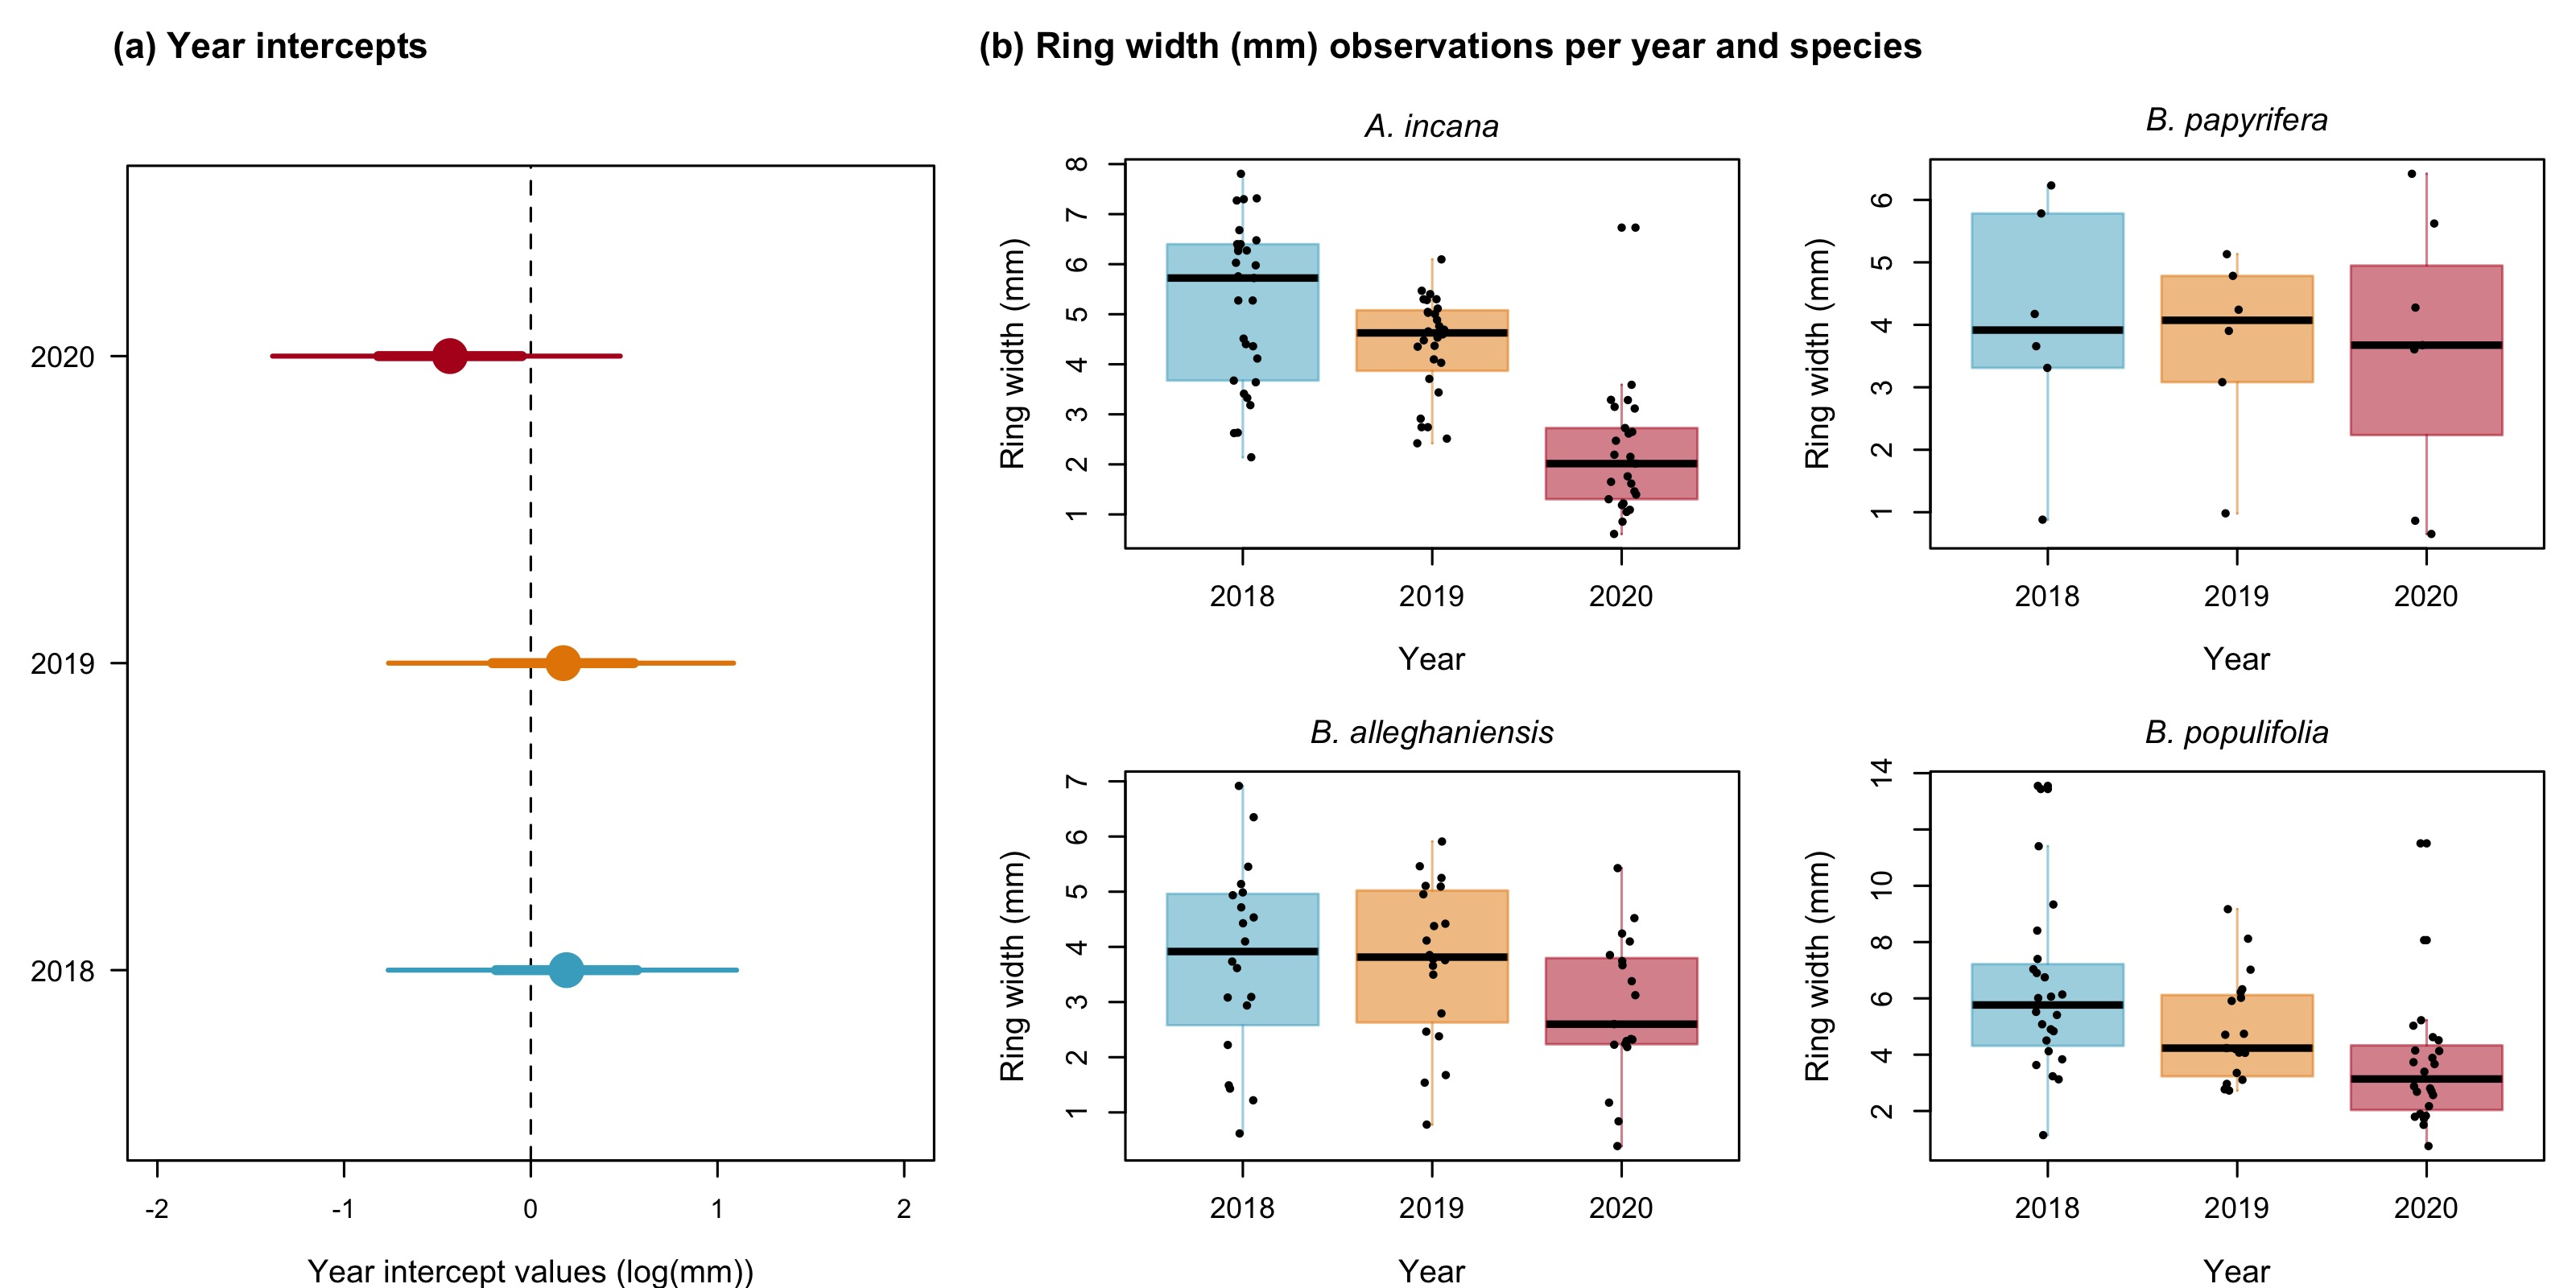
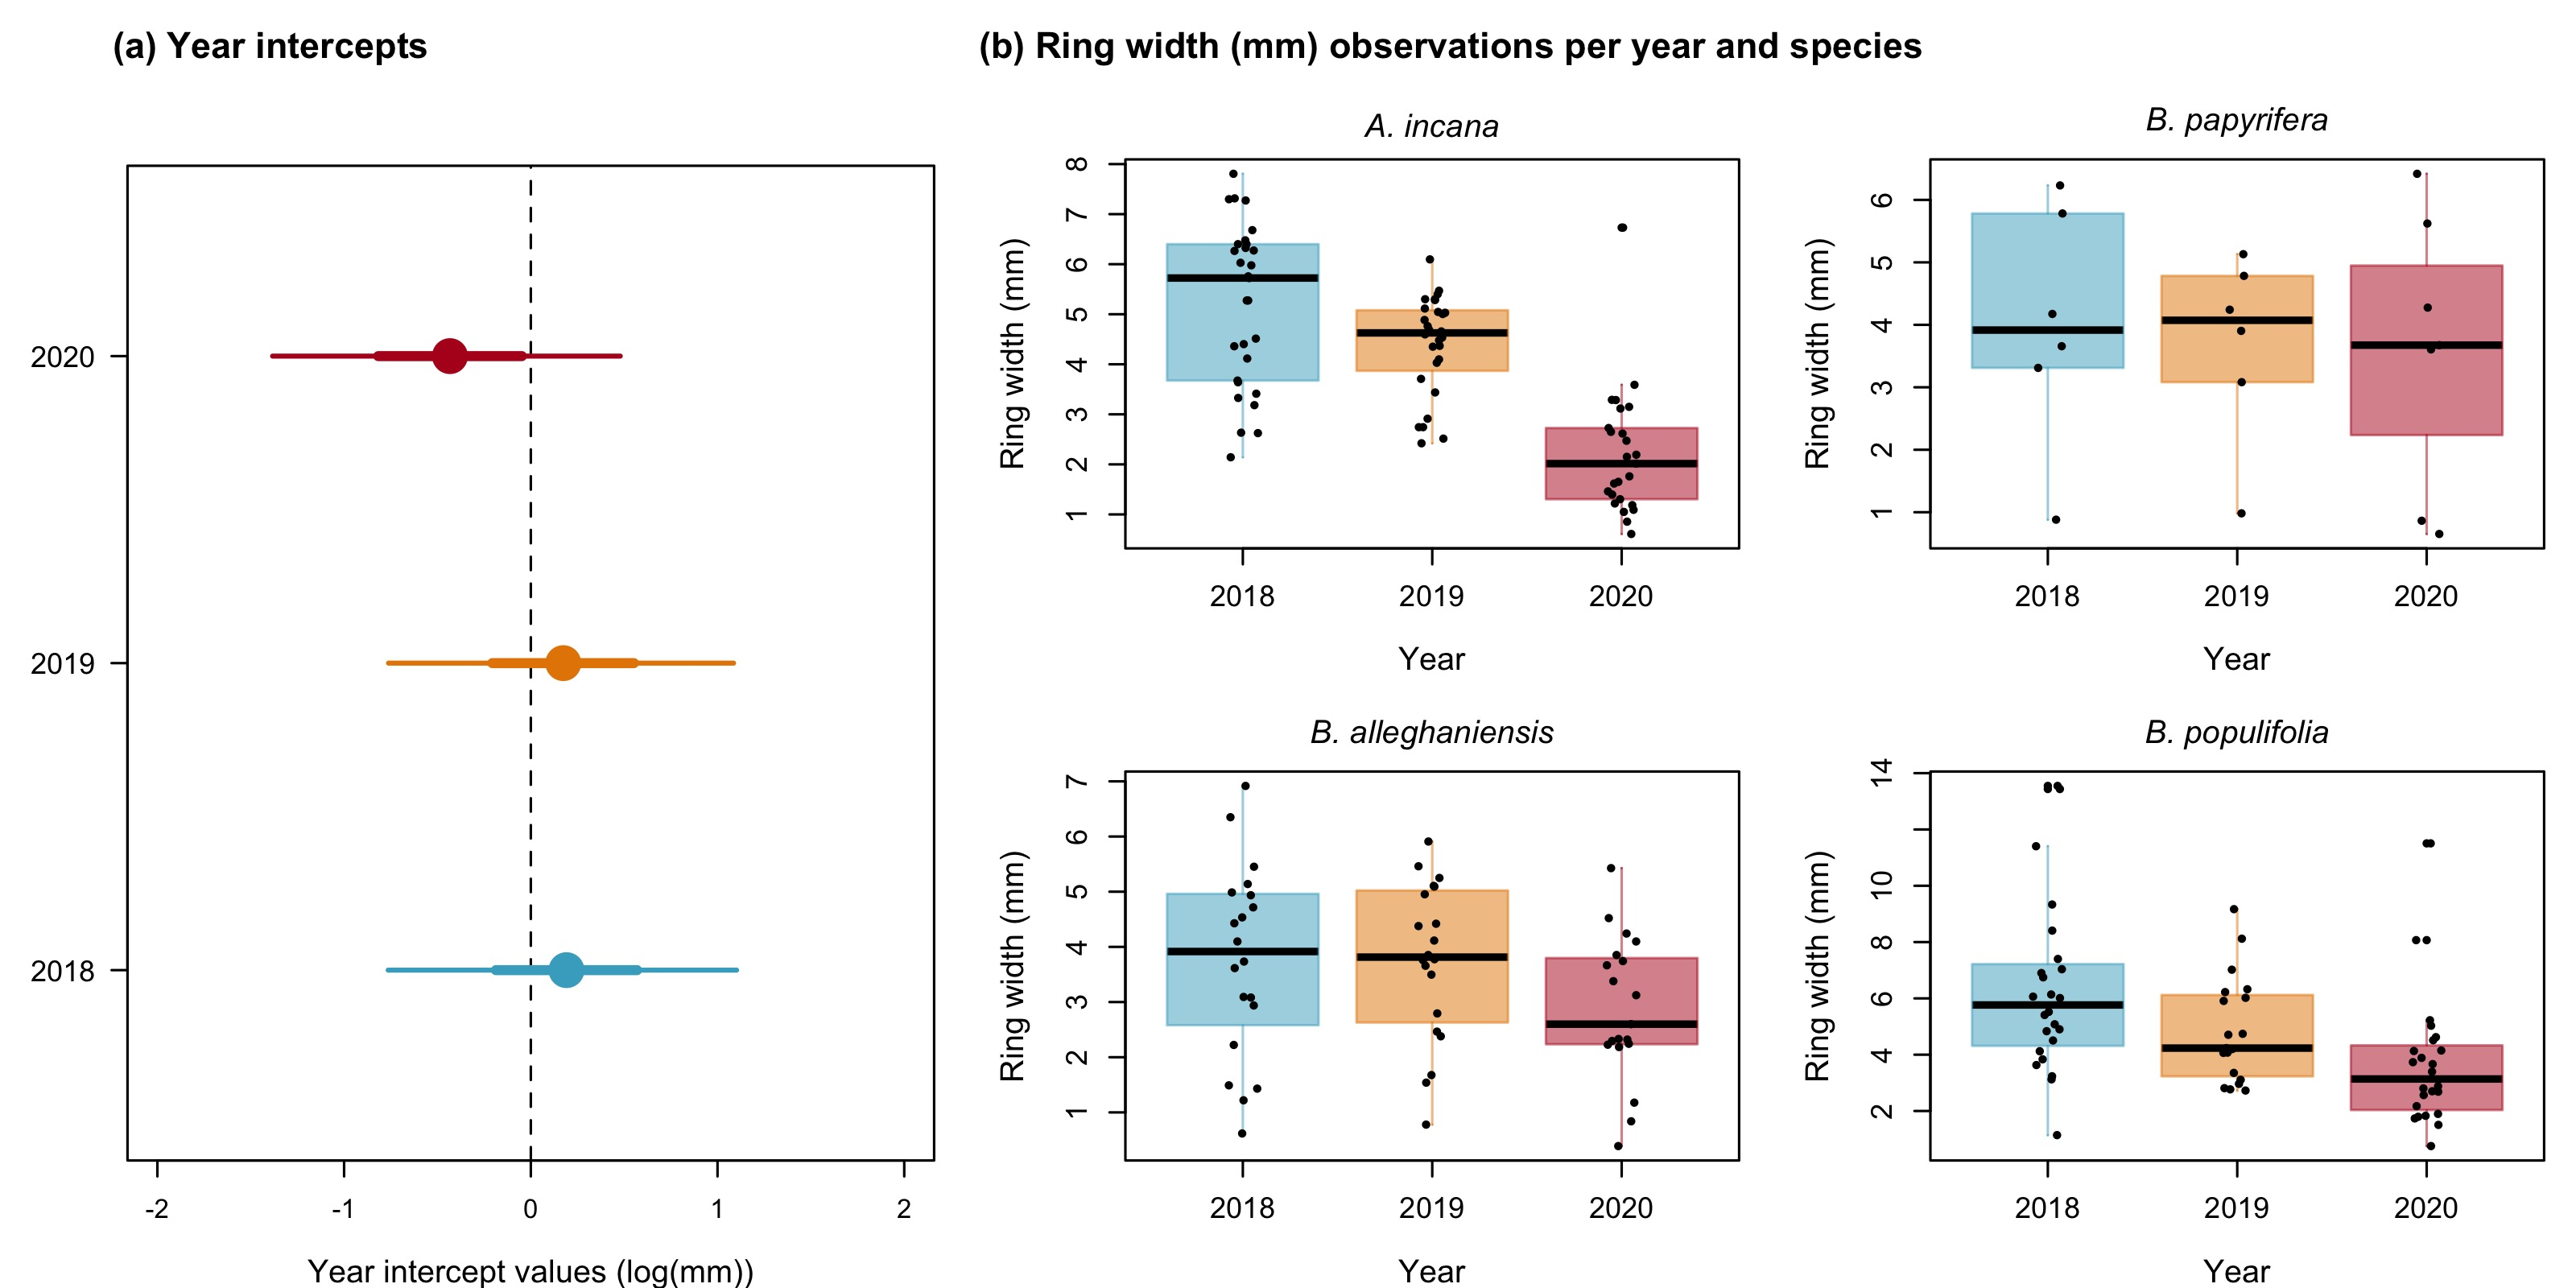
updated through lizzies comments and changed site table for all predictors

diff --git a/docs/resultsOutline/resultsOutlineReal.tex b/docs/resultsOutline/resultsOutlineReal.tex
@@ -67,7 +67,12 @@
 \newcommand{\Bpap}{\textit{B. papyrifera}}
 \newcommand{\Bpop}{\textit{B. populifolia}}
 
+\begin{knitrout}
+\definecolor{shadecolor}{rgb}{0.969, 0.969, 0.969}\color{fgcolor}\begin{kframe}
 
+
+{\ttfamily\noindent\bfseries\color{errorcolor}{\#\# Error:\\\#\# ! object 'species' not found}}\end{kframe}
+\end{knitrout}
 
 
 % % <><><><><><><><><><><><><><><><><><><><><><><><><><><><><><><><><><><><><><><>
@@ -98,7 +103,12 @@
 \begin{enumerate}
 \item Summary basic information
   \begin{enumerate}
-  \item Wildchrokie includes four deciduous tree species from four sites with leaf phenology data spaning three years (2018 to 2020) for a total of 239 leafout and 230 budset observations, yielding 227 complete growing seasons (GS) for 81 individuals. 
+  
+  \item Wildchrokie includes four deciduous tree species from four sites with leaf phenology data spaning three years (2018 to 2020) for a total of 239 leafout and 
+  230 budset observations, yielding 
+  227 complete growing seasons (GS) for 
+  81 individuals. 
+    
     \item GSL ranged from 
   90 days ({\Ball} in 2018) to 
   173 days ({\Ainc} in 2018)
@@ -106,15 +116,26 @@
   \item GS thermal sum ranged from 
   1465.1 GDD ({\Ball} in 2018) to 
   2513.6 GDD, ({\Ainc} in 2018)
-  \item The earliest leafout day of year was 22-Apr (2019) and the latest, 05-Jun (2019). The earliest budset day of year was 13-Aug (2018) and the latest, 24-Oct (2018) 
   
-  \item 2018 had a mean summer temperature of 22.85$^\circ$C and had a mean summer PDSI value of 
-  1.92. 2019 was cooler 
-  (22.38$^\circ$C) and wetter 
-  (PDSI $=$ 4.02), whereas 2020 was warmer 
-  (23.07$^\circ$C) and drier
-  (PDSI $=$ -2.35) than 2018.
-
+  \item The earliest leafout day of year was 
+  22-Apr ({\Ainc} in
+  2019) and the latest,
+  05-Jun (also {\Ainc}, but in
+  2020). 
+  The earliest budset day of year was 
+  13-Aug ({\Ball} in
+  2018) and the latest, 
+  24-Oct ({\Ainc} in
+  2018) 
+  
+  \item Mean summer temperature were similar across years with 2019 being the coolest (22.38$^\circ$C), 2020 the hottest (23.07$^\circ$C), and 2018 in between (22.85$^\circ$C)
+  
+  \item No drought for the three years, except for in 2020, where a moderate summer drought ramped up to a severe drought in September.
+  
+  \item Annual ring widths across years varied from 
+  0.39 mm ({\Ball} in 2020) to 
+  13.55 mm ({\Bpop} in 2018) (Figure \ref{fig:wcmuplotayear}). 
+ 
 \end{enumerate}
 
 % Question 1 --- --- --- --- --- --- --- --- --- --- --- --- --- --- --- --- ---
@@ -157,7 +178,7 @@
   [-0.02, 
   0.13]) trended in the same direction (Figure \ref{fig:wcmuplotbspp}b and f) (Table \ref{tab:wc_slope_table}).
   
-  \item Results with basal area increment (BAI) for the GDD model were broadly similar to ring width (see Figure \ref{fig:RWvsBAI} and Table \ref{tab:BAItab})
+  \item Results with basal area increment (BAI) for the GDD model were broadly similar to ring width (see Table \ref{tab:BAItab})
   \end{enumerate}
   
 % Question 2 --- --- --- --- --- --- --- --- --- --- --- --- --- --- --- --- ---
@@ -204,13 +225,13 @@
   [-3.14, 
   5.18]) (Figure \ref{fig:wcmuplotatreeid}), but had contrasting responses to longer growing seasons (Figure \ref{fig:wcmuplotbspp}a and b).
 
-  \item Growth did not change across any provenances (Figure \ref{fig:wcmuplotasite}) (Table \ref{tab:wc_asite_table}), but there was slightly more variation across sites ($\sigma = $
+  \item Growth did not change across any provenances (Figure \ref{fig:wcmuplotasite}) (Table \ref{tab:wc_asite_table}), and the variation across sites ($\sigma = $
   0.18, $UI_{90}$
   [0.02, 
-  0.5) than across tree ids ($\sigma = $ 
+  0.5) tree ids ($\sigma = $ 
   0.17, $UI_{90}$
   [0.05, 
-  0.27]
+  0.27]) was similar
 
   \end{enumerate}
 
@@ -219,10 +240,6 @@
 \item How did growth change across years, and how did it relate to climate?
   \begin{enumerate}
   
-  \item Annual ring widths across years varied from 
-  0.39 mm ({\Ball} in 2020) to 
-  13.55 mm ({\Bpop} in 2018) (Figure \ref{fig:wcmuplotayear}). 
- 
   \item Growth was highest in 2018 
   (0.19, $UI_{90}$
   [-0.76, 
@@ -250,12 +267,6 @@
 \label{fig:wcmuplotasite}
 \end{figure}
 
-% Wildchrokie year mu plot
-\begin{figure}[!ht]
-\includegraphics[width=1\textwidth]{../../analyses/figures/growthModelsMain/muayear_boxplot.jpeg}
-\caption{We show tree ring widths (mm) across years and species in two ways: (a) as model estimates for the year intercepts with the dots depicting the mean and the lines, the 50\% and 90\% uncertainty intervals (UI) and (b) using box plots of the empirical data. Though the trend is weak, 2020 is systematically the year with the lowest growth shown both as the mean of the model intercepts (a) and as the median of the raw data, for each species (b). The growth of 2018 and 2019 is similar.}
-\label{fig:wcmuplotayear}
-\end{figure}
 
 
 % <><><><><><><><><><><><><><><><><><><><><><><><><><><><><><><><><><><><><><><>
@@ -272,7 +283,7 @@
 %DL22May: You already say in the caption that the values are the slopes, so you can remove the beta and the equal signs from the table, same with the alpha in the next table
 % Table slope for Wildchrokie
 % latex table generated in R 4.5.1 by xtable 1.8-4 package
-% Fri May 29 15:49:16 2026
+% Tue Jun  2 16:45:07 2026
 \begin{table}[ht]
 \centering
 \caption{Species level slope parameters (mean and 90\% uncertainty intervals, in square brackets) across the four different predictors for Wildchrokie. GDD: growing degree days, GSL: growing season length, SOS: start of season and EOS: end of season.} 
@@ -290,10 +301,29 @@ Species & GDD & GSL & SOS & EOS \\
 \end{table}
 
 
+% latex table generated in R 4.5.1 by xtable 1.8-4 package
+% Tue Jun  2 16:45:07 2026
+\begin{table}[ht]
+\centering
+\caption{Site level intercept parameters (mean and 90\% uncertainty intervals, in square brackets) across the four different predictors for Wildchrokie. GDD: growing degree days, GSL: growing season length, SOS: start of season and EOS: end of season.} 
+\label{tab:wc_asite_table}
+\begin{tabular}{lllllrr}
+  \hline
+Site & GDD & GSL & SOS & EOS & Lat. & Lon. \\ 
+  \hline
+Harvard Forest (MA) & -0.10 [-0.33, 0.08] & -0.10 [-0.34, 0.08] & -0.05 [-0.26, 0.11] & -0.09 [-0.33, 0.08] & 42.53 & -72.19 \\ 
+  White Mountains (NH) & 0.08 [-0.09, 0.31] & 0.07 [-0.10, 0.29] & 0.08 [-0.07, 0.29] & 0.08 [-0.10, 0.30] & 44.11 & -71.23 \\ 
+  Dartmouth College (NH) & -0.03 [-0.22, 0.15] & -0.05 [-0.26, 0.13] & -0.07 [-0.27, 0.09] & -0.04 [-0.24, 0.15] & 44.79 & -71.15 \\ 
+  St-Hippolyte (Qc) & 0.04 [-0.14, 0.25] & 0.03 [-0.16, 0.24] & 0.02 [-0.15, 0.21] & 0.05 [-0.14, 0.27] & 45.93 & -74.03 \\ 
+   \hline
+\end{tabular}
+\end{table}
+
+
 % Table site intercept for Wildchrokie
 %DL22May: Could you add the site names as a column too
 % latex table generated in R 4.5.1 by xtable 1.8-4 package
-% Fri May 29 15:49:16 2026
+% Tue Jun  2 16:45:07 2026
 \begin{table}[ht]
 \centering
 \caption{Provenance level intercept parameters (mean and 90\% uncertainty intervals, in square brackets) for the GDD model.} 
@@ -332,6 +362,20 @@ Harvard Forest (MA) & -0.1 [-0.33, 0.08] & 42.53 & -72.19 \\
 \label{fig:wcmuplotatreeid}
 \end{figure}
 
+% Wildchrokie year mu plot
+\begin{figure}[!ht]
+\includegraphics[width=1\textwidth]{../../analyses/figures/growthModelsMain/muayear.jpeg}
+\caption{Model estimates for the year intercepts with the dots depicting the mean and the lines, the 50\% and 90\% uncertainty intervals (UI) and (b) using box plots of the empirical data. Though the trend is weak, 2020 is systematically the year with the lowest growth shown both as the mean of the model intercepts (a) and as the median of the raw data, for each species (b). The growth of 2018 and 2019 is similar.}
+\label{fig:wcmuplotayear}
+\end{figure}
+
+% Wildchrokie boxplot
+\begin{figure}[!ht]
+\includegraphics[width=1\textwidth]{../../analyses/figures/growthModelsMain/boxplotRingWidth.jpeg}
+\caption{Empirical data. Though the trend is weak, 2020 is systematically the year with the lowest growth shown both as the mean of the model intercepts (a) and as the median of the raw data, for each species (b). The growth of 2018 and 2019 is similar.}
+\label{fig:wcmuplotayear}
+\end{figure}
+
 % Z-scored slope results Wildchrokie
 \begin{figure}[!ht]
 \includegraphics[width=0.8\textwidth]{../../analyses/figures/growthModelsMain/zscored/muALLbspp.pdf}
@@ -339,15 +383,8 @@ Harvard Forest (MA) & -0.1 [-0.33, 0.08] & 42.53 & -72.19 \\
 \label{fig:bsppZscored}
 \end{figure}
 
-% RW vs BAI 1 1 plot
-\begin{figure}[!ht]
-\includegraphics[width=1\textwidth]{../../analyses/figures/growthModelsMain/RWvsBAI.jpeg}
-\caption{Model parameter estimates comparison when using basal area increment (BAI) vs ring width (RW). }
-\label{fig:RWvsBAI}
-\end{figure}
-
 % latex table generated in R 4.5.1 by xtable 1.8-4 package
-% Fri May 29 15:49:16 2026
+% Tue Jun  2 16:45:07 2026
 \begin{table}[ht]
 \centering
 \caption{Posterior means and 90\% uncertainty intervals for all model parameters, when using basal area increment (BAI) as the response variable} 

diff --git a/docs/manuscript/manuscriptOutline.tex b/docs/manuscript/manuscriptOutline.tex
@@ -115,7 +115,7 @@
 \item Shifts in spring and autumn phenology supports the assumption that longer growing seasons increase tree growth \citep{keenan_net_2014, stridbeck_partly_2022}
   \begin{enumerate}
   
-  \item Recent research shows that this may not be the case \citep{dow_warm_2022,green_limits_2022,silvestro_longer_2023,wang_seasonal_2025} \cite{cabon_cross-biome_2022,matula_shifts_2023,wang_seasonal_2025}
+  \item Recent research shows that this may not be the case \citep{dow_warm_2022,green_limits_2022,silvestro_longer_2023,wang_seasonal_2025,matula_shifts_2023,wang_seasonal_2025}
   
   \item \cite{dow_warm_2022} showed that trees did not grow more or faster despite warmer and earlier springs at the regional scale
   

diff --git a/docs/resultsOutline/resultsOutlineReal-concordance.tex b/docs/resultsOutline/resultsOutlineReal-concordance.tex
@@ -1,2 +1,2 @@
 \Sconcordance{concordance:resultsOutlineReal.tex:resultsOutlineReal.rnw:%
-1 19 1 50 0 1 15 220 1 1 16 20 1 1 8 67 1 1 32 2 1}
+1 19 1 50 0 5 1 1 10 226 1 1 17 18 1 1 13 20 1 1 8 74 1 1 32 2 1}